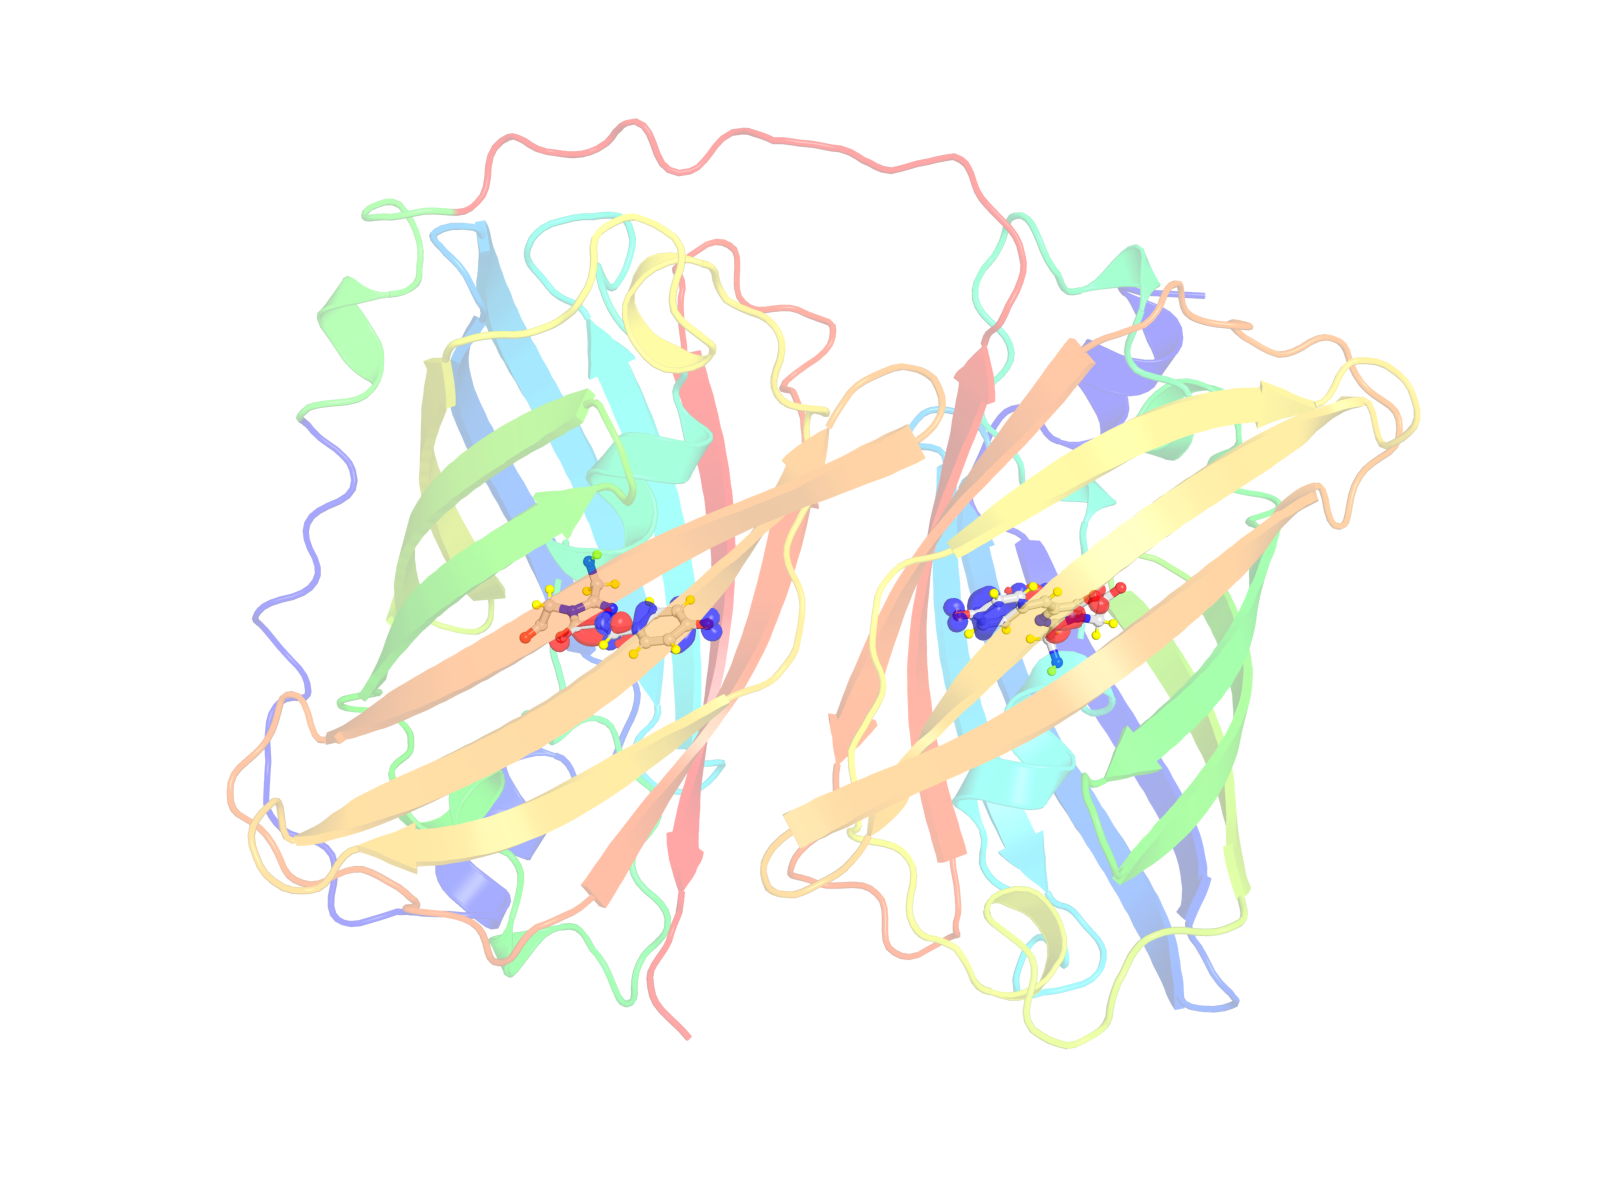
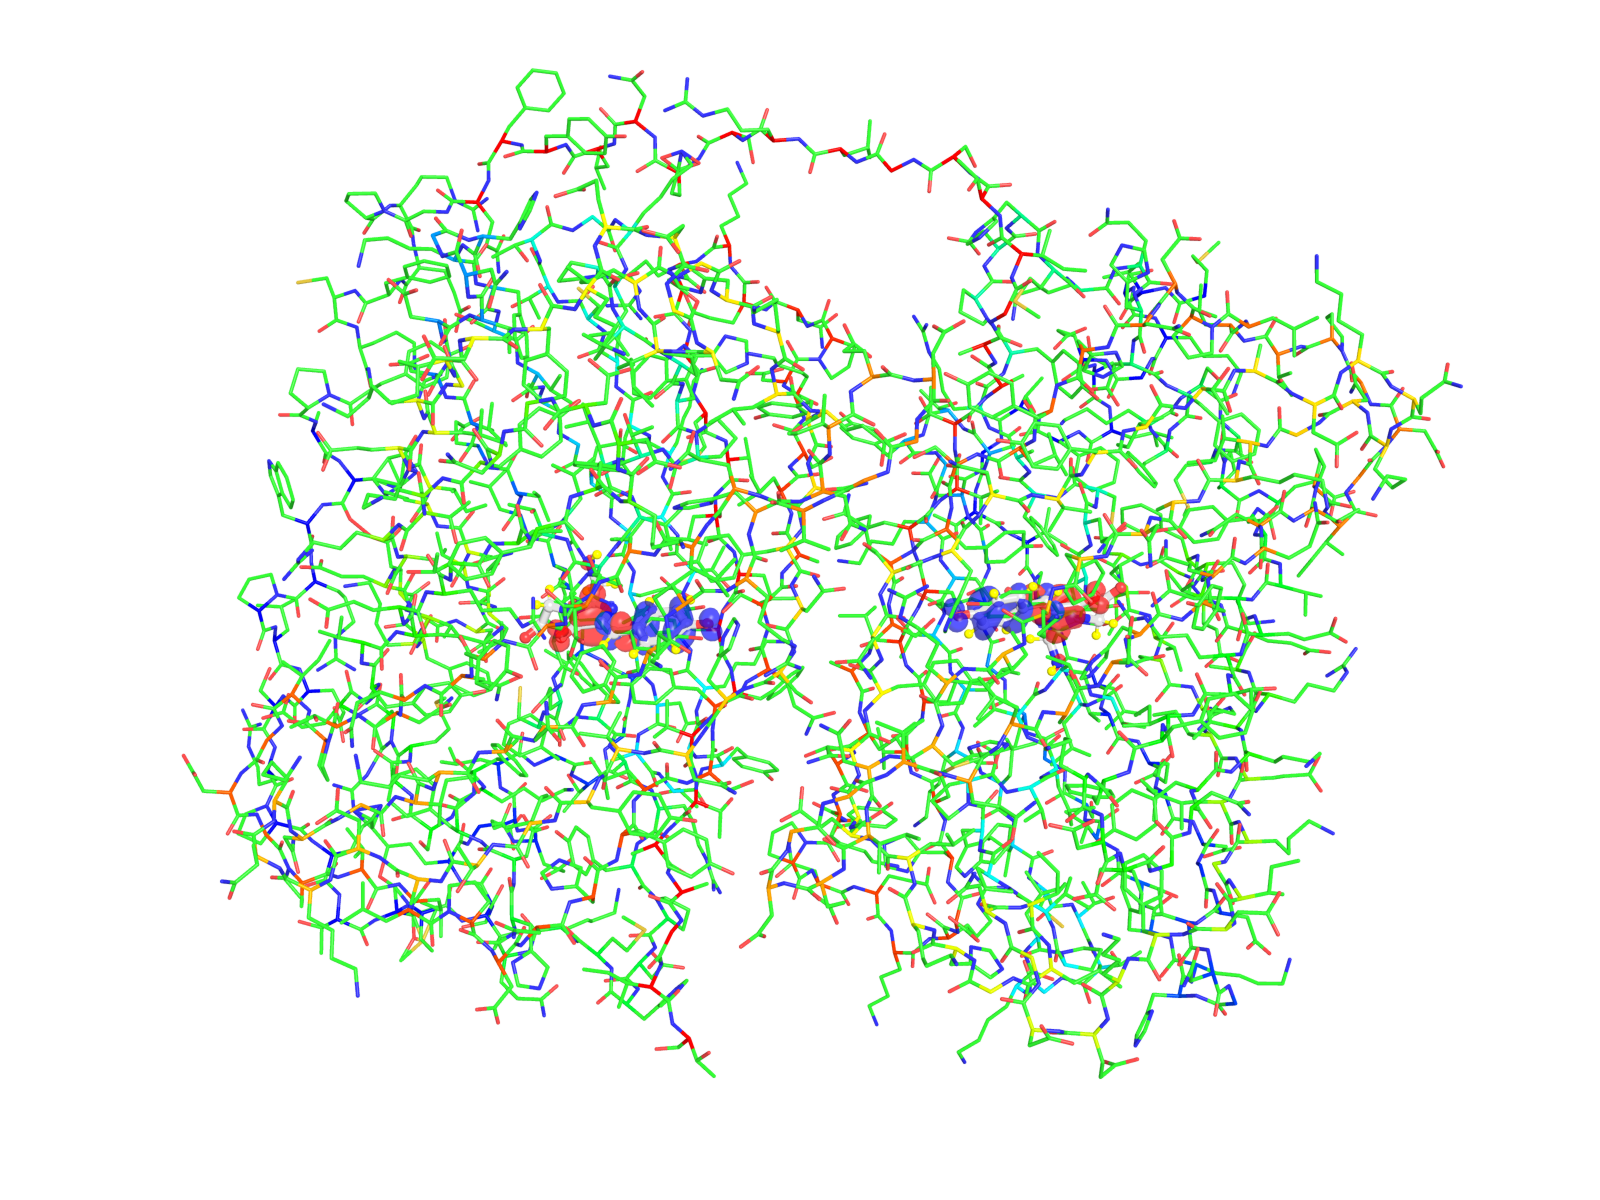
Restore rainbow skeleton rendering and opaque background for Figures 2 and 3

Changed region(s): [[0.125, 0.0617, 0.9062, 0.8942], [0.2812, 0.8325, 0.3125, 0.8633]]

diff --git a/make_paper_figures.py b/make_paper_figures.py
@@ -15,7 +15,7 @@ ISO, W, H, QM = 0.04, 1600, 1200, "resi 66"     # CR2 chromophore
 
 cmd.reinitialize()
 cmd.bg_color("white")
-for k, v in [("ray_opaque_background",0),("ray_shadows",0),("antialias",2),("ambient",0.45),
+for k, v in [("ray_opaque_background",1),("ray_shadows",0),("antialias",2),("ambient",0.45),
              ("transparency",0.35),("cartoon_transparency",0.65),("cartoon_fancy_helices",1),
              ("depth_cue",0),("valence",0),("sphere_scale",0.22)]:
     cmd.set(k, v)
@@ -29,7 +29,7 @@ cmd.matrix_copy("siteA", "siteA")  # ensure matrix is applied
 cmd.matrix_copy("siteB", "siteB")
 
 cmd.hide("everything")
-cmd.show("cartoon", "dimer_ref")
+cmd.show("lines", "dimer_ref")
 cmd.spectrum("count", "rainbow", "dimer_ref and resi 1-240 and name CA")
 cmd.spectrum("count", "rainbow", "dimer_ref and resi 250-500 and name CA")
 
@@ -59,11 +59,11 @@ def render(fn, kind, view):
     cmd.disable("Transition_Density"); cmd.disable("Difference_Density")
     cmd.enable("Transition_Density" if kind=="tr" else "Difference_Density")
     if view == "dimer":
-        cmd.enable("siteA"); cmd.enable("siteB"); cmd.show("cartoon","dimer_ref")
+        cmd.enable("siteA"); cmd.enable("siteB"); cmd.show("lines","dimer_ref")
         cmd.enable(f"{kind}_A_p"); cmd.enable(f"{kind}_A_n")
         cmd.orient("dimer_ref")
     else:                                                        # site-B QM close-up
-        cmd.hide("cartoon"); cmd.disable("siteA")
+        cmd.hide("lines"); cmd.disable("siteA")
         cmd.disable(f"{kind}_A_p"); cmd.disable(f"{kind}_A_n")
         cmd.orient(f"siteB and {QM}"); cmd.zoom(f"siteB and {QM}", 3)
     cmd.ray(W, H); cmd.png(f"{OUT}/{fn}", dpi=300); print("wrote", fn)
@@ -74,6 +74,6 @@ render("03_difference_dimer.png", "df", "dimer")
 render("04_difference_qm.png",    "df", "qm")
 
 # clean state for interactive viewing
-cmd.enable("siteA"); cmd.enable("siteB"); cmd.show("cartoon","dimer_ref")
+cmd.enable("siteA"); cmd.enable("siteB"); cmd.show("lines","dimer_ref")
 cmd.enable("Transition_Density"); cmd.disable("Difference_Density"); cmd.orient("dimer_ref")
 print("DONE — 4 paper-format figures in", OUT)
